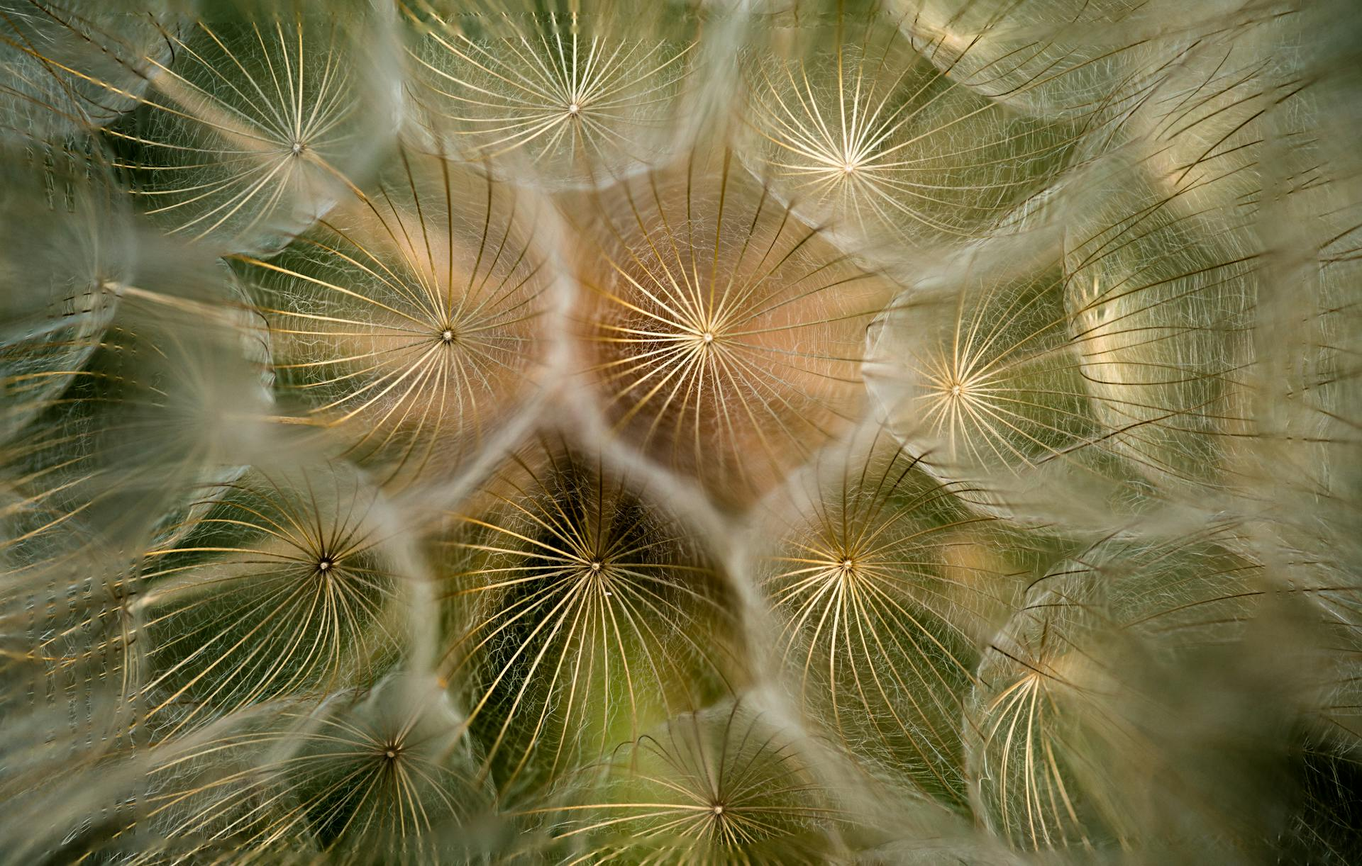
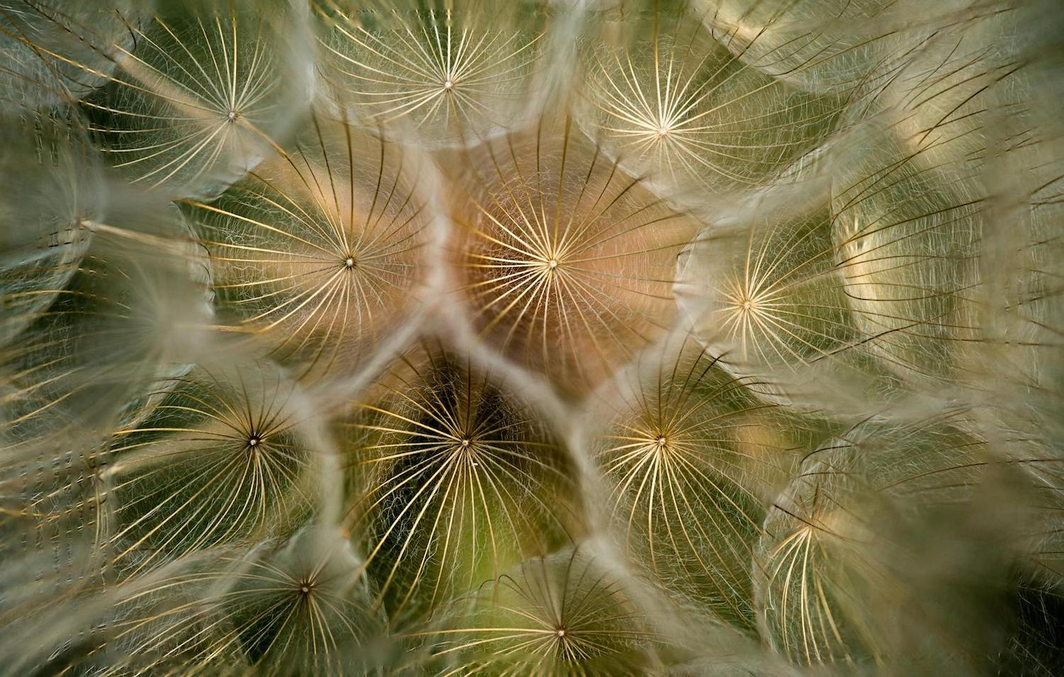
downsized images for performance improvement

diff --git a/README.md b/README.md
@@ -59,6 +59,7 @@ These are the user stories I started off with. These were broken down into tasks
 12. As an Admin, I want to moderate comments, so I can ensure a respectful and constructive environment.
 13. As an Admin, I want to manage user accounts, so I can assist with membership issues and maintain site quality.
 
+<br>
 
 <details>
 <summary> User Story Template
@@ -80,6 +81,7 @@ These are the user stories I started off with. These were broken down into tasks
 
 ![Project Board](./assets/docs/project-board.png)
 </details>
+<br>
 
 ***
 
